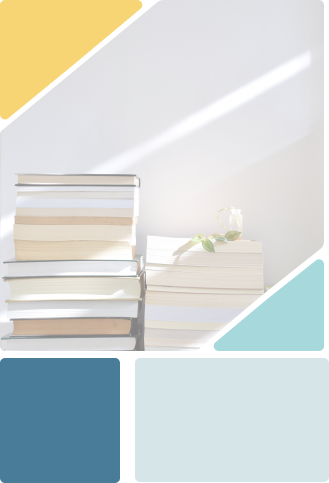
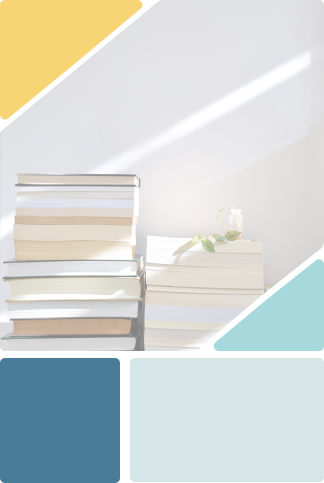
Home - Mobile Responsive
Inserção da responsividade para mobile

diff --git a/src/components/Layout/Hero.module.css b/src/components/Layout/Hero.module.css
@@ -1,56 +1,102 @@
+/******* SM SCREEN  ********/
 .home {
-   @apply grid grid-cols-4 
-   grid-rows-5 
+   @apply grid
+   grid-cols-4 mb:grid-cols-4
+   grid-rows-[2fr_50px_1fr] mb:grid-rows-[2fr_50px] 
    gap-2 
    ml-2 
-   mr-2 
-   justify-around;
+   mr-2;
 }
 
 .home .home__item--1 {
-   @apply row-start-1
-   row-end-6
-   col-start-1
-   col-end-3;
+   @apply row-start-1 
+   row-end-4 
+   col-start-1 
+   col-span-2 
+   mb:row-start-1
+   mb:row-end-2
+   mb:col-start-1
+   mb:col-end-5
+   mb:justify-self-center;
 }
 
 .home .home__item--2 {
-   @apply row-start-1
-  row-end-3
-  col-start-3
-  col-end-5
-  mb-3;
+   @apply col-span-2 row-span-1
+   mb:row-start-1
+   mb:row-end-2
+   mb:col-start-1
+   mb:col-end-5
+   mb:max-w-[220px]
+   mb:justify-self-center;
 }
+
+/* place-content-center
+place-items-center
+place-self-center
+self-center
+items-center
+content-center
+justify-self-center
+justify-items-center
+justify-center */
 
 .home__item--2 h1 {
-   @apply text-h-title 
+   @apply text-h-title
    font-normal 
-   text-center 
-   mb-7;
+   text-center
+   mb:text-2xl
+   mb:mt-20
+   mb:font-medium
+   mb:leading-relaxed
+   mb:tracking-wider;
 }
-
+/* tracking-tighter	letter-spacing: -0.05em;
+tracking-tight	letter-spacing: -0.025em;
+tracking-normal	letter-spacing: 0em;
+tracking-wide	letter-spacing: 0.025em;
+tracking-wider	letter-spacing: 0.05em;
+tracking-widest	letter-spacing: 0.1em; */
 .home__item--2 p {
-   @apply text-sm 
-   text-center;
+   @apply text-sm
+   text-center
+   mt-3
+   mb:hidden;
 }
 
 .home .home__item--3 {
-   @apply row-start-3
-   row-end-3
-   col-start-3
-   col-end-5
-   flex
-   justify-center
-   items-center
-   h-16;
+   @apply row-start-2 row-end-3
+   col-start-3 col-end-5
+   grid
+   place-content-center
+   mb:justify-self-center
+   mb:row-start-1
+   mb:row-end-2
+   mb:col-start-1
+   mb:col-end-5
+   mb:max-w-xs
+   mb:mt-28;
 }
 
 .home .home__item--4 {
-   @apply row-start-4
-  row-end-5
-  col-start-3
-  col-end-5
-  items-start
-  flex
-  justify-around;
+   @apply /* SM */
+   row-start-3 row-end-4
+   col-start-3 col-end-5
+   flex
+   justify-around
+   items-end
+   mb:flex
+   mb:place-content-center
+   mb:items-end
+   mb:row-start-2
+   mb:row-end-3
+   mb:col-start-1
+   mb:col-end-5;
 }
+
+.home__item--4 button + button {
+   @apply mb:ml-14;
+}
+
+/******* MD SCREEN  ********/
+/******* LG SCREEN  ********/
+/******* XL SCREEN  ********/

diff --git a/src/components/UI/PlayStoreBtn.module.css b/src/components/UI/PlayStoreBtn.module.css
@@ -6,40 +6,28 @@
 }
 
 /******* MOBILE SCREEN  ********/
-.playStoreBtn {
+/* .playStoreBtn {
    @apply mb:bg-black;
-}
+} */
 
 /******* SM SCREEN  ********/
 
 .playStoreBtn {
    @apply relative
-    w-32 
-    h-12 
-    bottom-2;
+    min-w-[8rem]
+    min-h-[3rem];
 }
 
 .playStoreBtn h1 {
-   @apply text-sm 
-   relative 
-   left-11 
-   bottom-4 
-   max-w-fit;
+   @apply text-sm absolute inline-block right-4;
 }
 
 .playStoreBtn p {
-   @apply text-xs 
-   relative 
-   left-9 
-   bottom-4 
-   max-w-fit;
+   @apply text-xs absolute inline-block right-2 bottom-6;
 }
 
 .playStoreBtn svg {
-   @apply relative 
-   left-2 
-   top-3
-   animate-bounce;
+   @apply absolute inline-block left-3 top-4;
 }
 
 /******* SM SCREEN  ********/

diff --git a/src/components/UI/GitHubBtn.module.css b/src/components/UI/GitHubBtn.module.css
@@ -6,38 +6,27 @@
 }
 
 /******* MOBILE SCREEN  ********/
-.gitHubBtn {
+/* .gitHubBtn {
    @apply mb:bg-black;
-}
+} */
 
 /******* SM SCREEN  ********/
 .gitHubBtn {
-   @apply w-32
-   h-12 
-   relative
-   bottom-2;
+   @apply relative
+   min-w-[8rem]
+   min-h-[3rem];
 }
 
 .gitHubBtn h1 {
-   @apply text-sm 
-   relative 
-   left-14 
-   bottom-4 
-   max-w-fit;
+   @apply text-sm absolute inline-block right-5;
 }
 
 .gitHubBtn p {
-   @apply text-xs 
-   relative 
-   left-10 
-   bottom-4 
-   max-w-fit;
+   @apply text-xs absolute inline-block right-2 bottom-6;
 }
 
 .gitHubBtn svg {
-   @apply relative 
-   left-2 
-   top-3;
+   @apply absolute inline-block left-3 top-4;
 }
 
 /******* SM SCREEN  ********/

diff --git a/src/index.css b/src/index.css
@@ -8,3 +8,26 @@
    font-family: 'Montserrat', 'Poppins';
    src: url('https://fonts.googleapis.com/css2?family=Montserrat:wght@300;400&family=Poppins:wght@400;600;700&display=swap');
 }
+
+@layer base {
+   h1,
+   h2,
+   h3,
+   h4,
+   h5,
+   h6 {
+      font-family: 'Montserrat', serif;
+   }
+
+   p {
+      font-family: 'Poppins', serif;
+   }
+
+   button,
+   input,
+   optgroup,
+   select,
+   textarea {
+      font-family: 'Poppins', serif;
+   }
+}

diff --git a/src/App.js b/src/App.js
@@ -4,14 +4,14 @@ import Hero from './components/Layout/Hero';
 import './App.css';
 
 function App() {
-  return (
-    <Fragment>
-      <Navigation />
-      <div className='container'>
-        <Hero />
-      </div>
-    </Fragment>
-  );
+   return (
+      <Fragment>
+         <Navigation />
+         <main className='container'>
+            <Hero />
+         </main>
+      </Fragment>
+   );
 }
 
 export default App;

diff --git a/dist/index.css b/dist/index.css
@@ -421,6 +421,10 @@ Ensure the default browser behavior of the `hidden` attribute.
   display: none;
 }
 
+button {
+  font-family: Poppins;
+}
+
 *, ::before, ::after {
   --tw-translate-x: 0;
   --tw-translate-y: 0;
@@ -510,6 +514,10 @@ Ensure the default browser behavior of the `hidden` attribute.
 
 .mb-5 {
   margin-bottom: 1.25rem;
+}
+
+.mr-3 {
+  margin-right: 0.75rem;
 }
 
 .flex {

diff --git a/src/components/Layout/Carousel.jsx b/src/components/Layout/Carousel.jsx
@@ -1,12 +1,12 @@
-import React from 'react';
+import React, { Fragment } from 'react';
 import CarouselImg from './CarouselItems/CarouselImg';
 
 const Carousel = () => {
-  return (
-    <div>
-      <CarouselImg />
-    </div>
-  );
+   return (
+      <Fragment>
+         <CarouselImg />
+      </Fragment>
+   );
 };
 
 export default Carousel;

diff --git a/src/components/UI/PlayStoreBtn.jsx b/src/components/UI/PlayStoreBtn.jsx
@@ -24,7 +24,7 @@ const PlayStoreBtn = () => {
             </g>
          </svg>
          <p>Disponível na</p>
-         <h1>PlayStore</h1>;
+         <h1>PlayStore</h1>
       </button>
    );
 };

diff --git a/src/App.css b/src/App.css
@@ -17,4 +17,12 @@
    p {
       font-family: 'Poppins', serif;
    }
+
+   button,
+   input,
+   optgroup,
+   select,
+   textarea {
+      font-family: 'Poppins', serif;
+   }
 }
